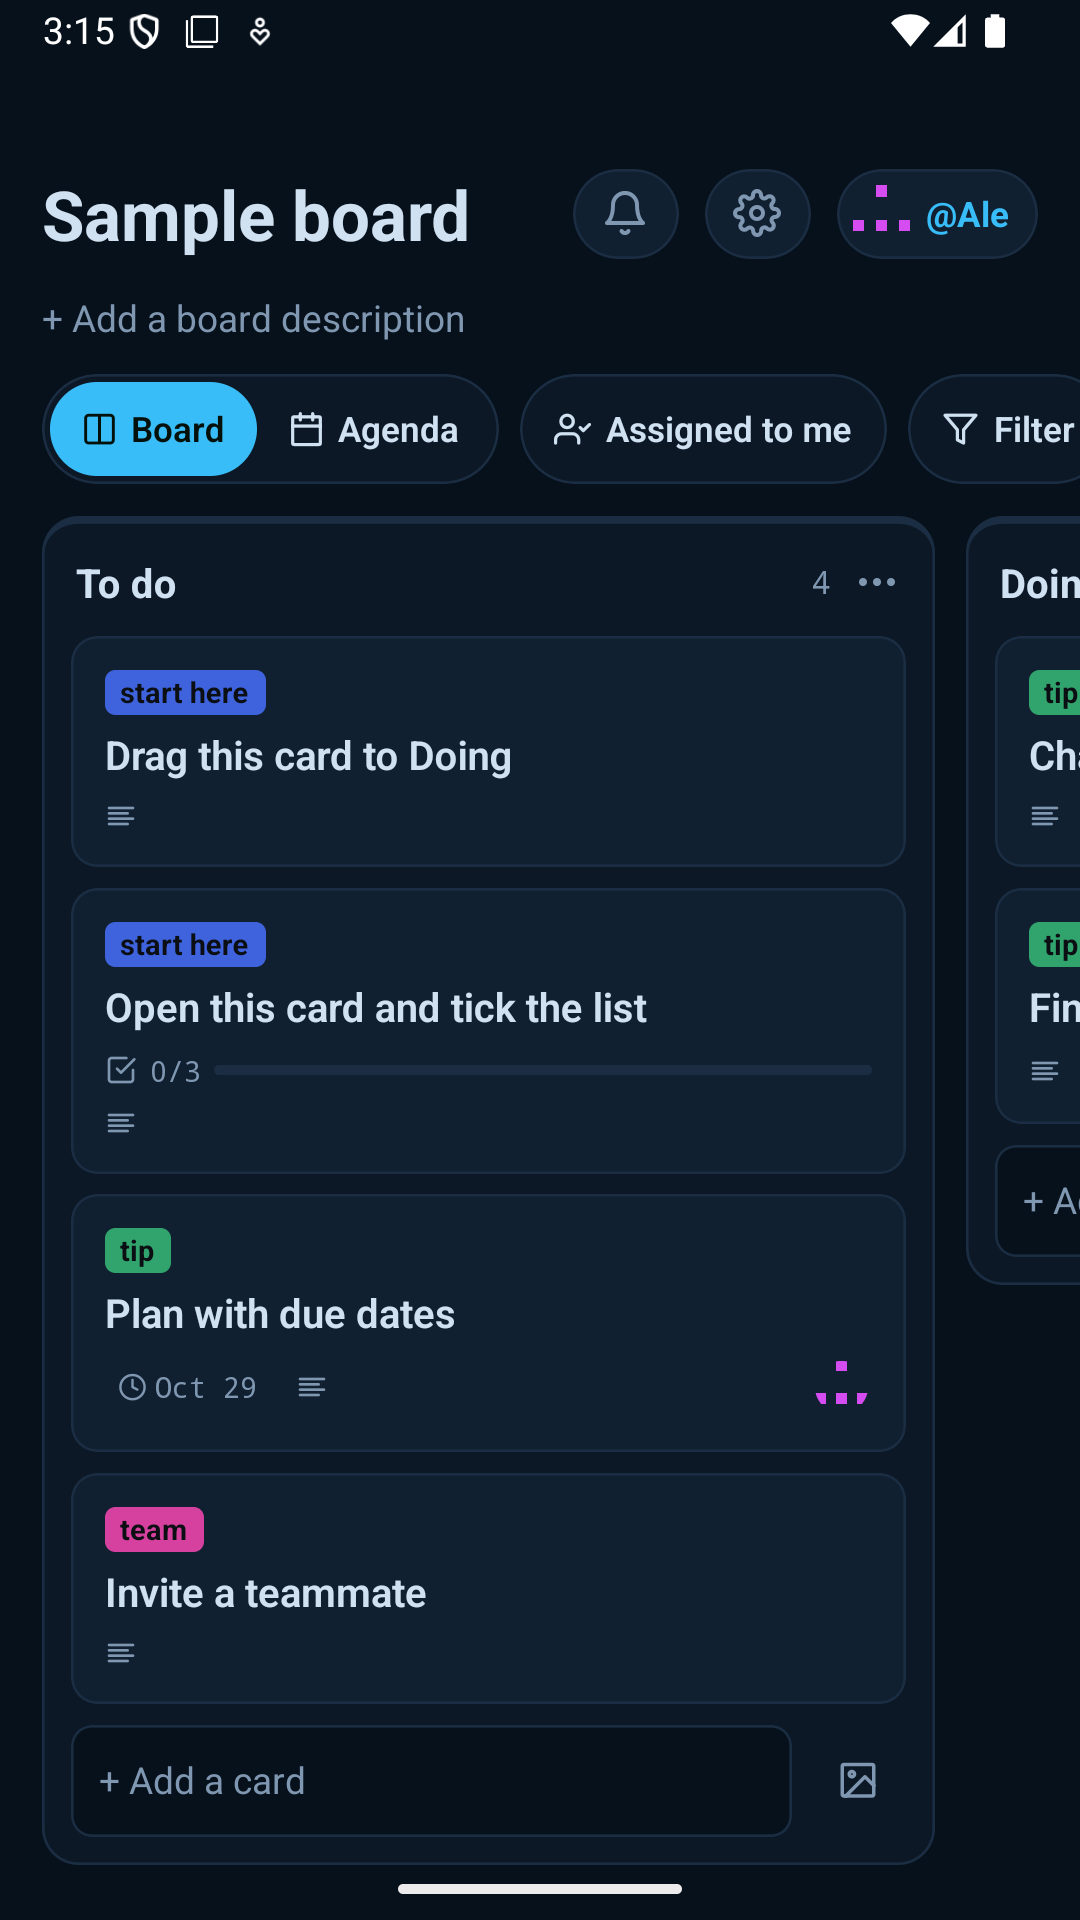
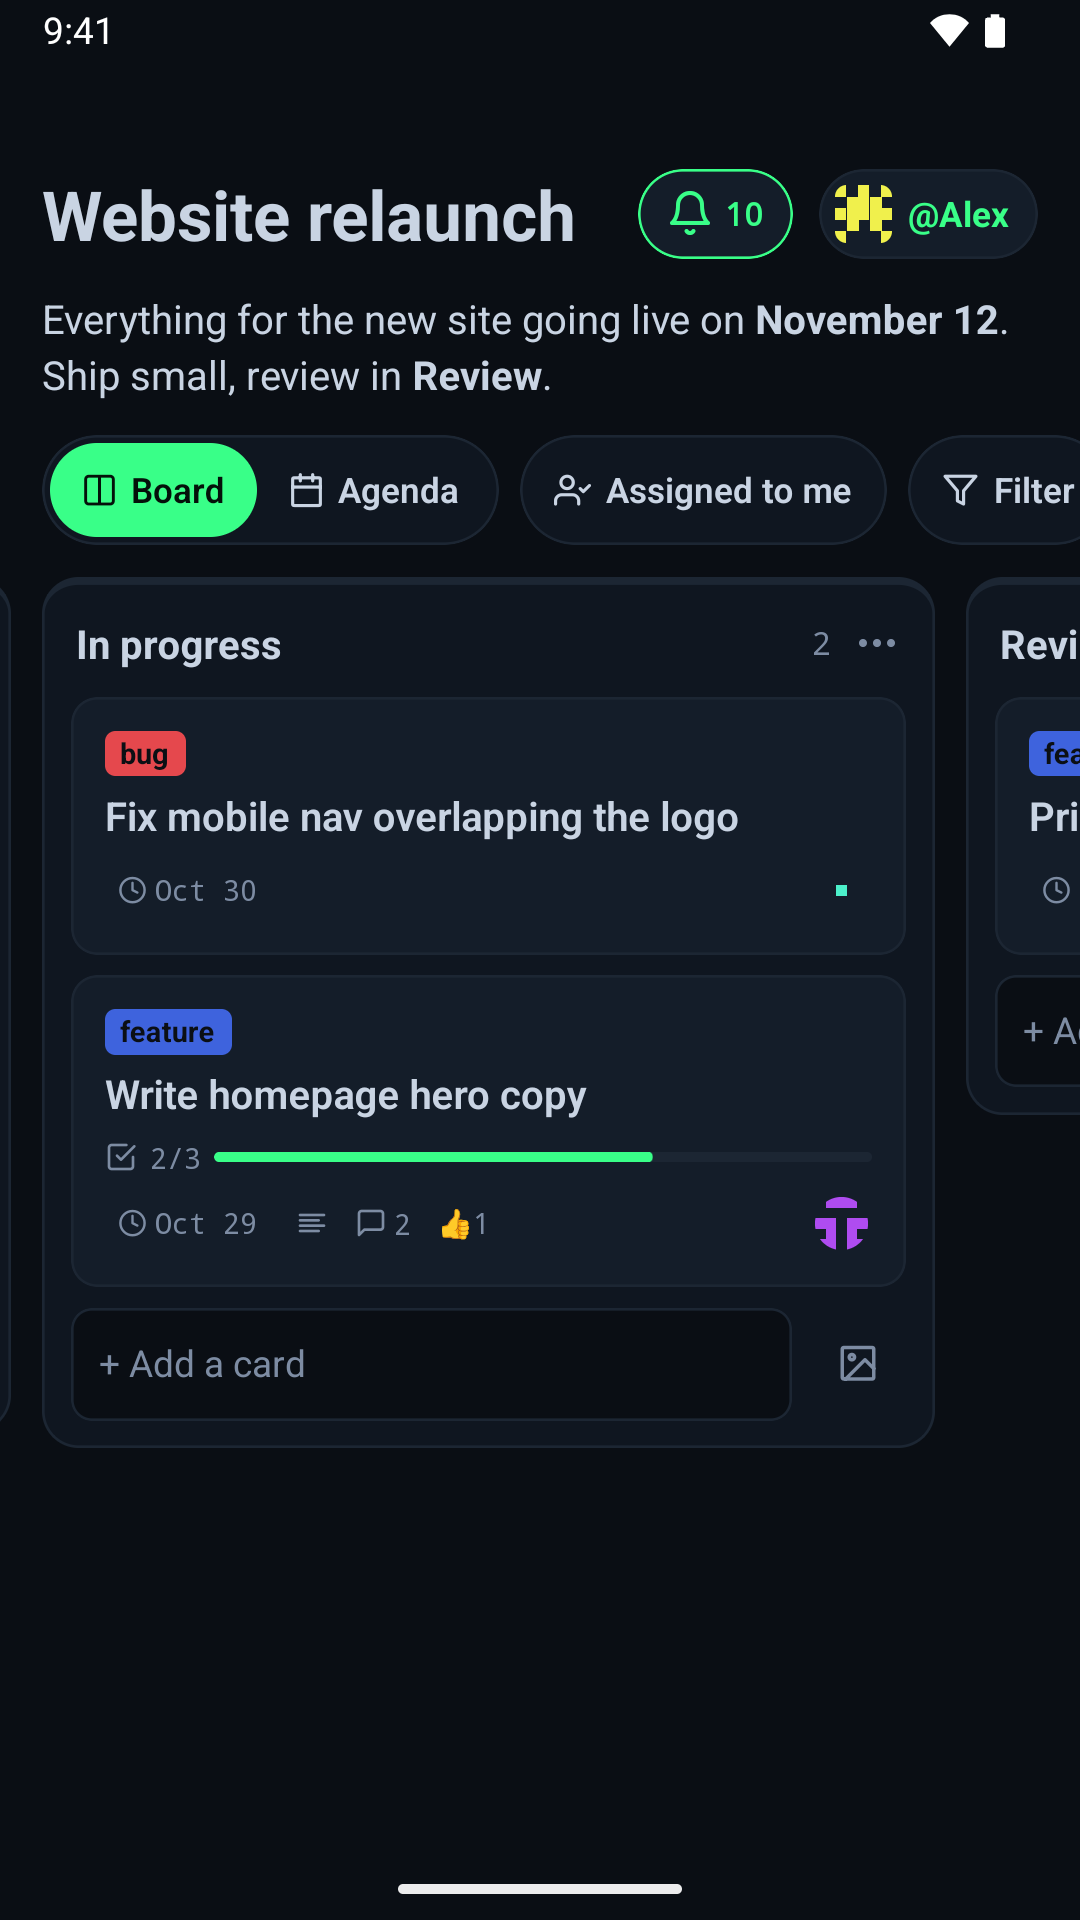
store: new screenshots for Google Play and the App Store
Taken from the current 1.0.5 build on a "Website relaunch" demo board with
labels, due dates, checklists, a comment thread and three members:
board, card, comments, agenda and the invite QR code.

- Play: screenshots/*.png, 1080 × 1920 (emulator, demo status bar)
- App Store: app-store-screenshots/*.jpg, 1320 × 2868 (iPhone 17 Pro Max)

Stats is left out: the demo board has no history, so it showed one bar.

Claude-Session: https://claude.ai/code/session_01TjRg2Cq3JLKfNRMXJFYNnF

diff --git a/apps/mobile/store/app-store.md b/apps/mobile/store/app-store.md
@@ -90,8 +90,9 @@ xcrun simctl io booted screenshot board.png                 # one per screen
 sips -s format jpeg board.png --out board.jpg               # drops the alpha channel
 ```
 
-Reuse the Play screens (board, card, agenda, stats), from a board with real-looking
-content rather than the near-empty sample board.
+iPhone 6.9" screenshots are in `app-store-screenshots/` (1320 × 2868 JPEG): board, card,
+comments, agenda and the invite QR code, the same screens as the Play set. iPad
+screenshots are not made yet.
 
 ## App Privacy
 

diff --git a/apps/mobile/store/play-listing.md b/apps/mobile/store/play-listing.md
@@ -48,7 +48,7 @@ Because there is no server, a board is only reachable while at least one member 
 
 **Feature graphic:** `feature-graphic.png` (1024×500)
 
-**Phone screenshots:** `screenshots/*.png` (1080×1920; Play rejects sides more than 2:1,
+**Phone screenshots:** `screenshots/*.png`: board, card, comments, agenda, invite QR (1080×1920; Play rejects sides more than 2:1,
 so the default 1080×2400 emulator screen is not accepted)
 
 ## Store settings
